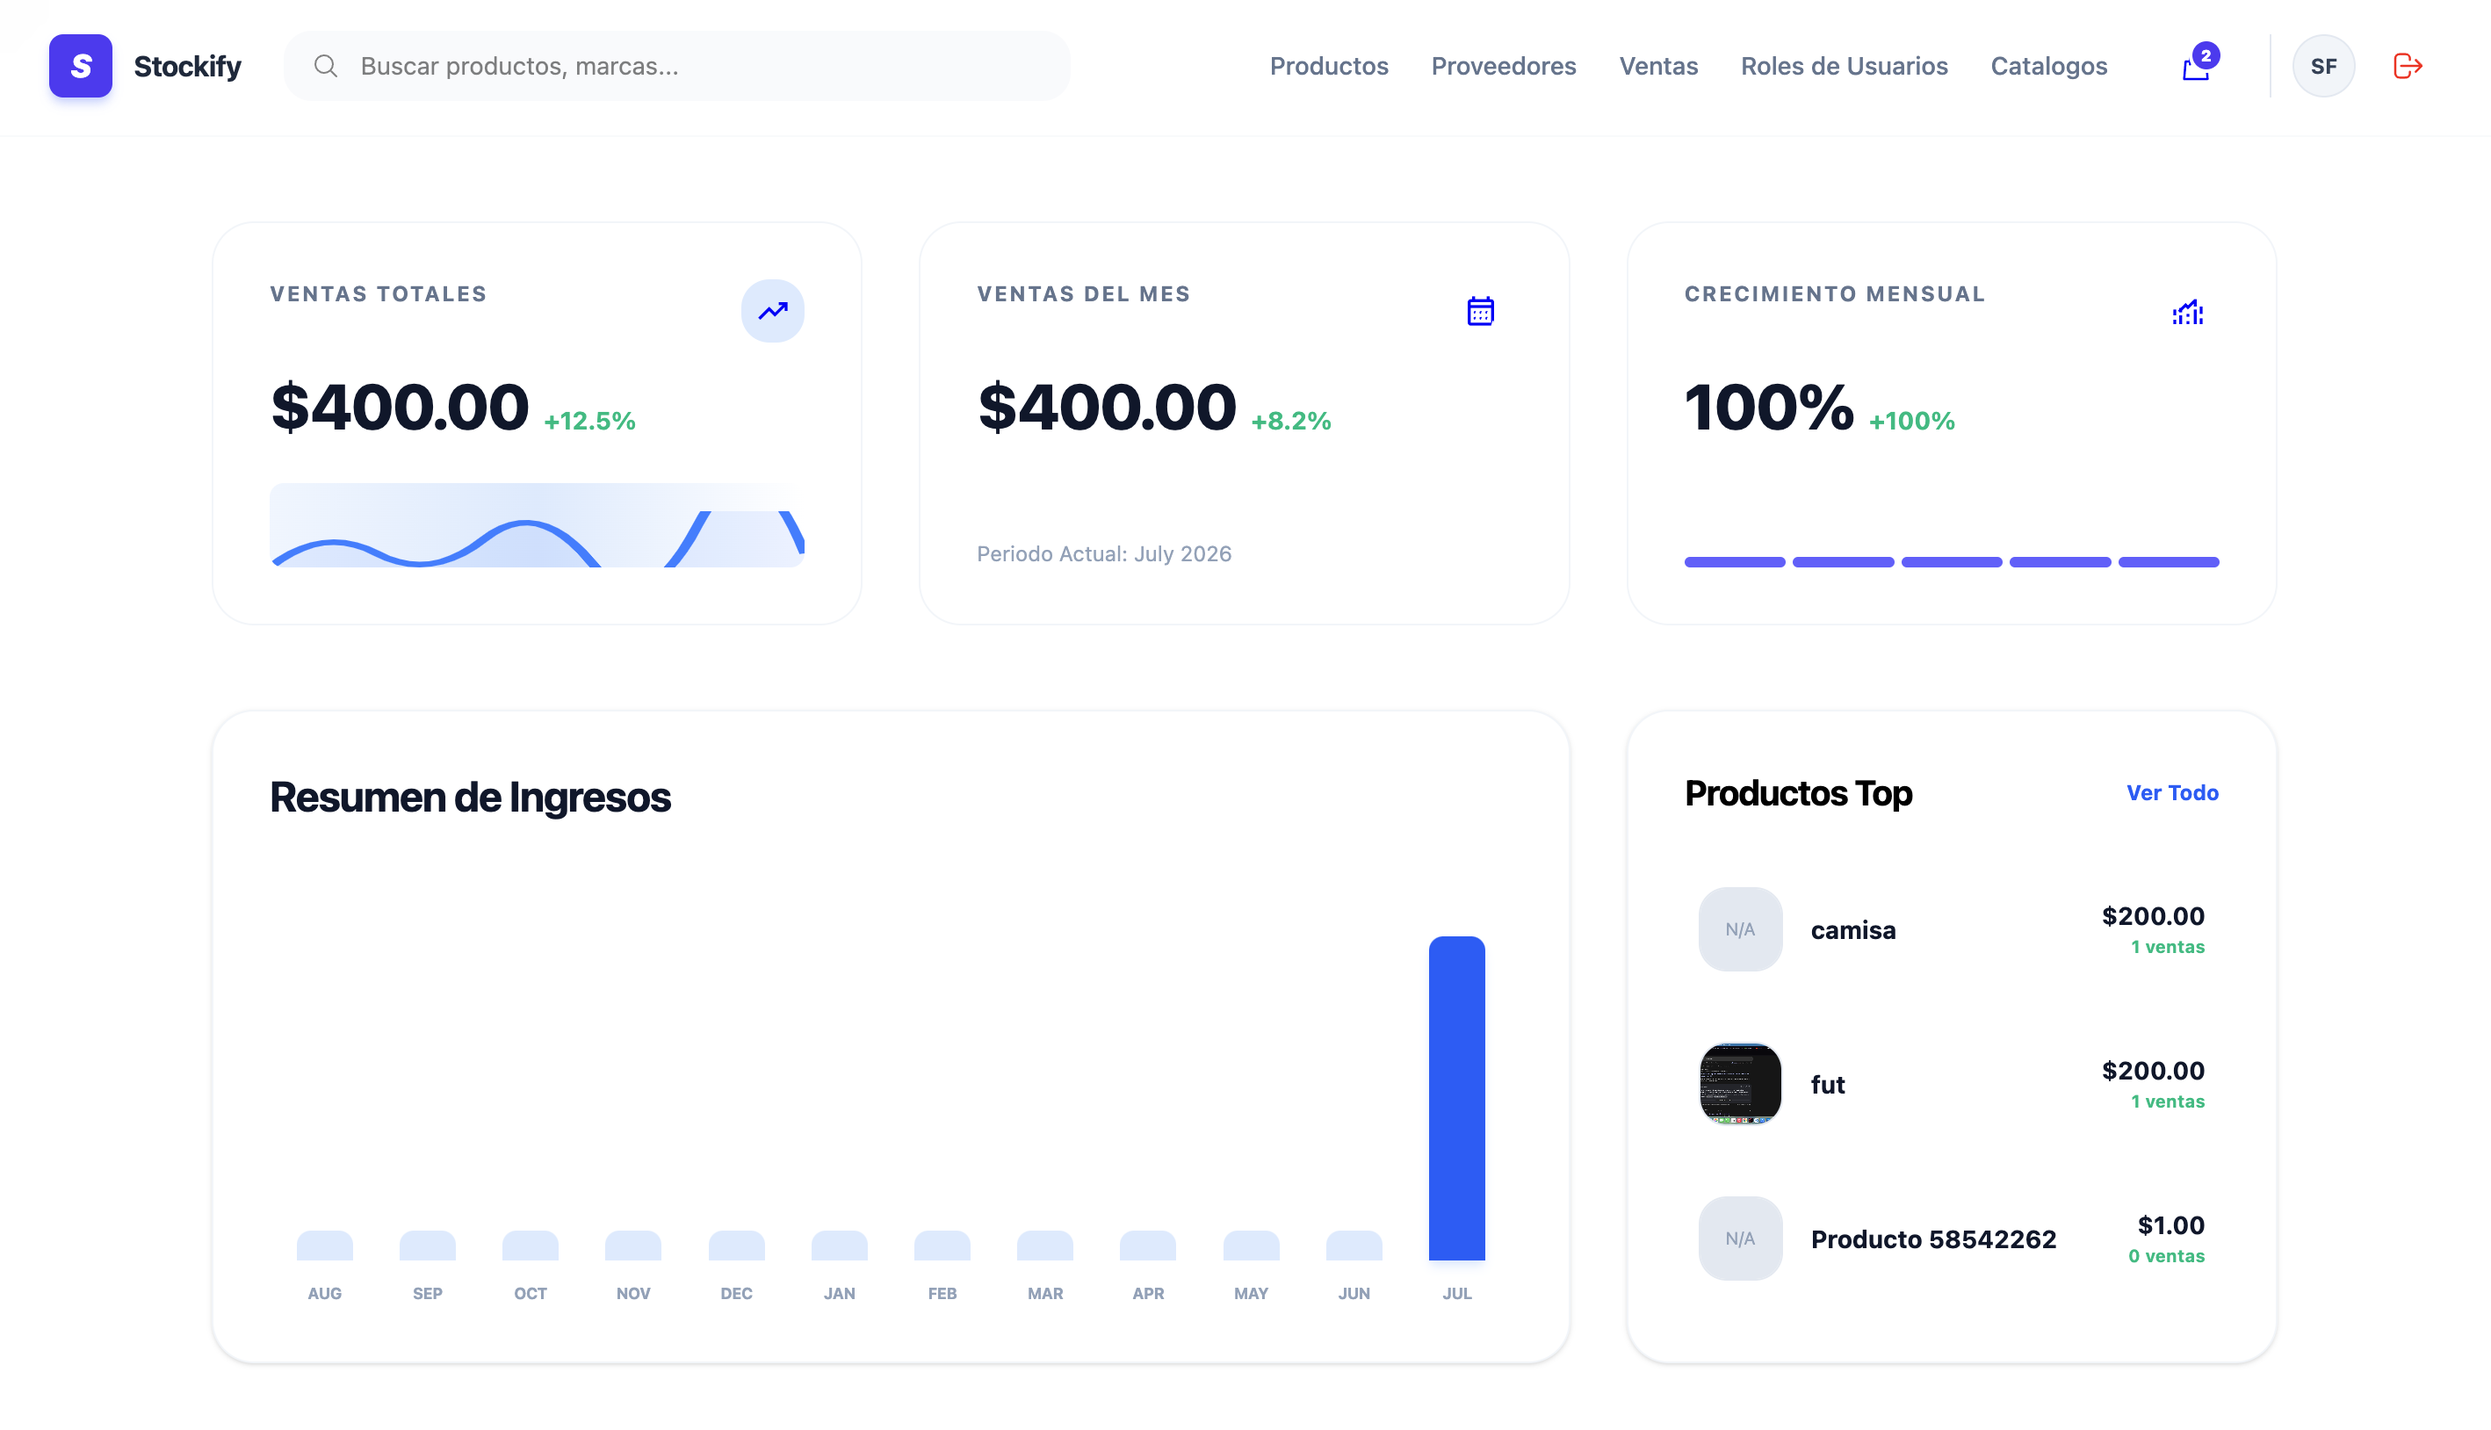
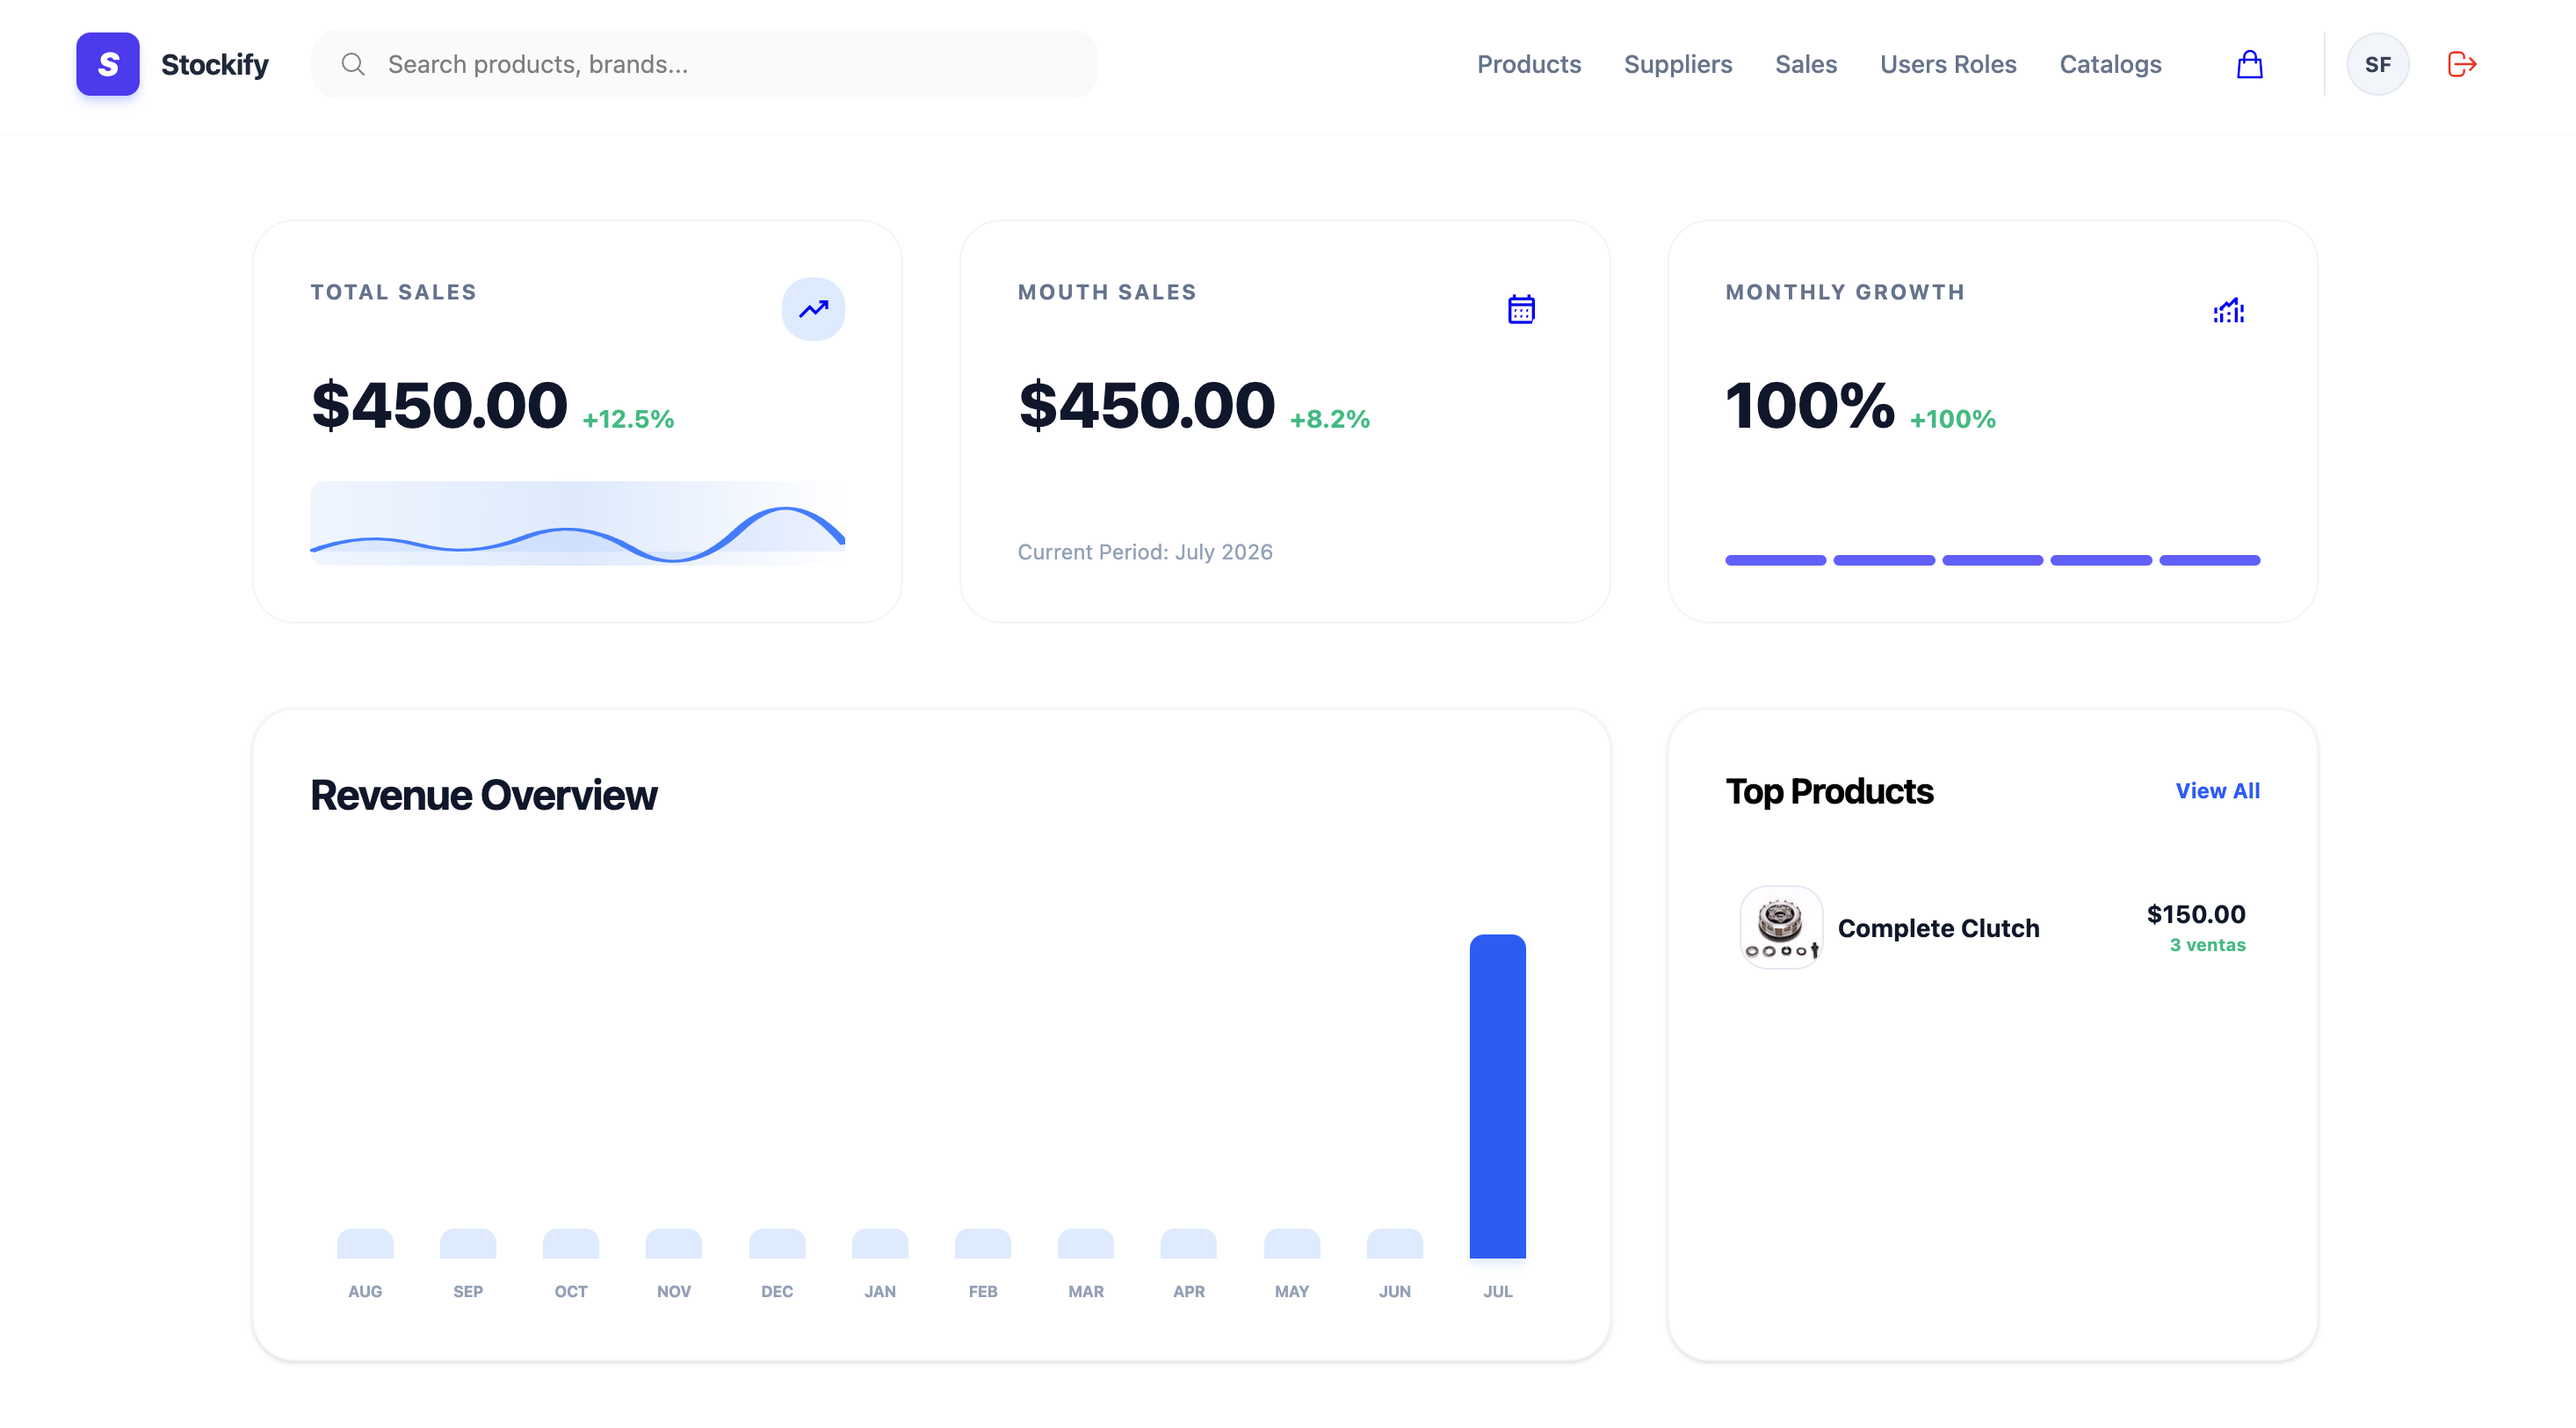
Update README and screenshots for improved clarity and accuracy

diff --git a/README.md b/README.md
@@ -20,7 +20,7 @@ A full-featured inventory and POS platform built with Ruby on Rails, designed fo
 </div>
 
 <p align="center">
-  <img src="docs/screenshots/loop.gif" alt="Stockify Demo">
+  <img src="docs/screenshots/stockify_tutorial.gif" alt="Stockify Demo">
 </p>
 
 ---
@@ -52,7 +52,7 @@ Stockify is a modern inventory management and point-of-sale platform built with 
 - Categories
 - Brands
 - Stock Control
-- Barcode Support (Coming Soon)
+- Barcode Support
 - Product Images
 - Catalogs
 
@@ -107,7 +107,7 @@ search suggestions, and direct product sales.
 
 | Product List | Product Details |
 |--------------|-----------------|
-| ![](docs/screenshots/product/products.png) | ![](docs/screenshots/product/7.png) |
+| ![](docs/screenshots/product/index_prod.png) | ![](docs/screenshots/product/show_prod.png) |
 
 
 ---
@@ -119,7 +119,7 @@ providing centralized contact management and secure multi-tenant data separation
 
 | Suppliers List | Suppliers Details |
 |--------------|-----------------|
-| ![](docs/screenshots/supplier/4.png) | ![](docs/screenshots/supplier/6.png) |
+| ![](docs/screenshots/supplier/index_supplier.png) | ![](docs/screenshots/supplier/show_suppl.png) |
 
 ---
 
@@ -131,7 +131,7 @@ them through an intuitive dashboard with detailed views, editing, and product tr
 
 | Catalog List | Catalog Details |
 |--------------|-----------------|
-| ![](docs/screenshots/catalogs/cat1.png) | ![](docs/screenshots/catalogs/cat2.png) |
+| ![](docs/screenshots/catalogs/index_catl.png) | ![](docs/screenshots/catalogs/show_catl.png) |
 
 ---
 
@@ -154,7 +154,8 @@ add products manually or via barcode scanning, manage cart items,
 complete purchases, generate printable receipts and PDF sales reports, and 
 process refunds while automatically updating inventory.
 
-![POS](docs/screenshots/sales/gift.gif)
+![POS](docs/screenshots/sales/make_sales.gif)
+![POS](docs/screenshots/sales/sales_tutorial.gif)
 
 ---
 
